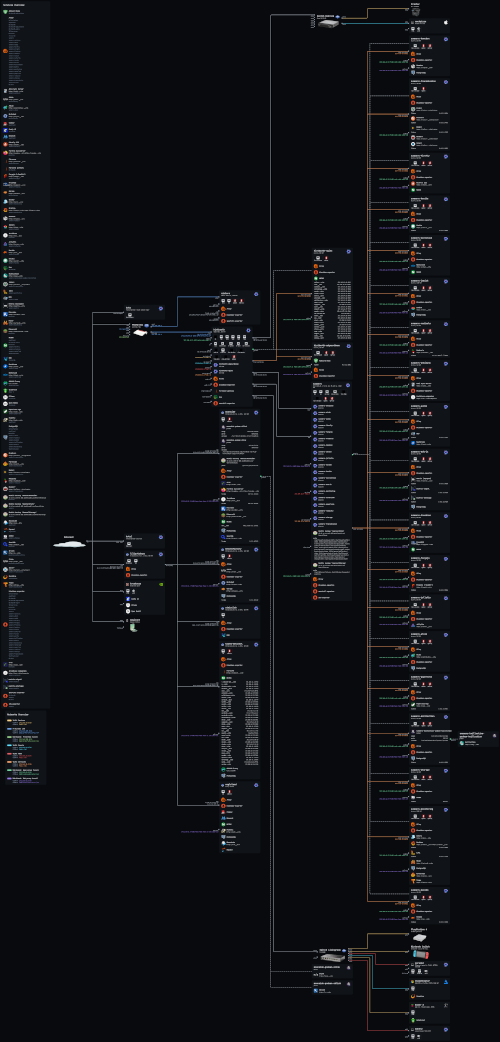
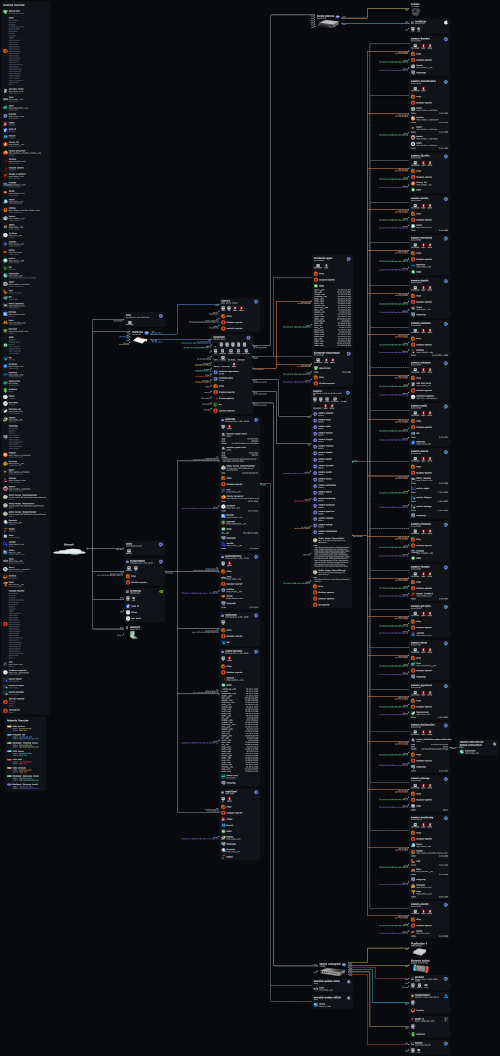
chore: update nix-topology

diff --git a/.github/README.md b/.github/README.md
@@ -109,7 +109,7 @@
   <details>
     <summary>Click here for a summary of my infrastructure</summary>
 
-<img width="4250" height="9117" alt="topology" src="https://github.com/user-attachments/assets/582264cf-f239-4699-b90f-69f2cef5a7b2" />
+<img width="4681" height="9890" alt="topology" src="https://github.com/user-attachments/assets/58742580-fb02-4b51-978a-364f5df1ddbd" />
 
 
   ### Programs